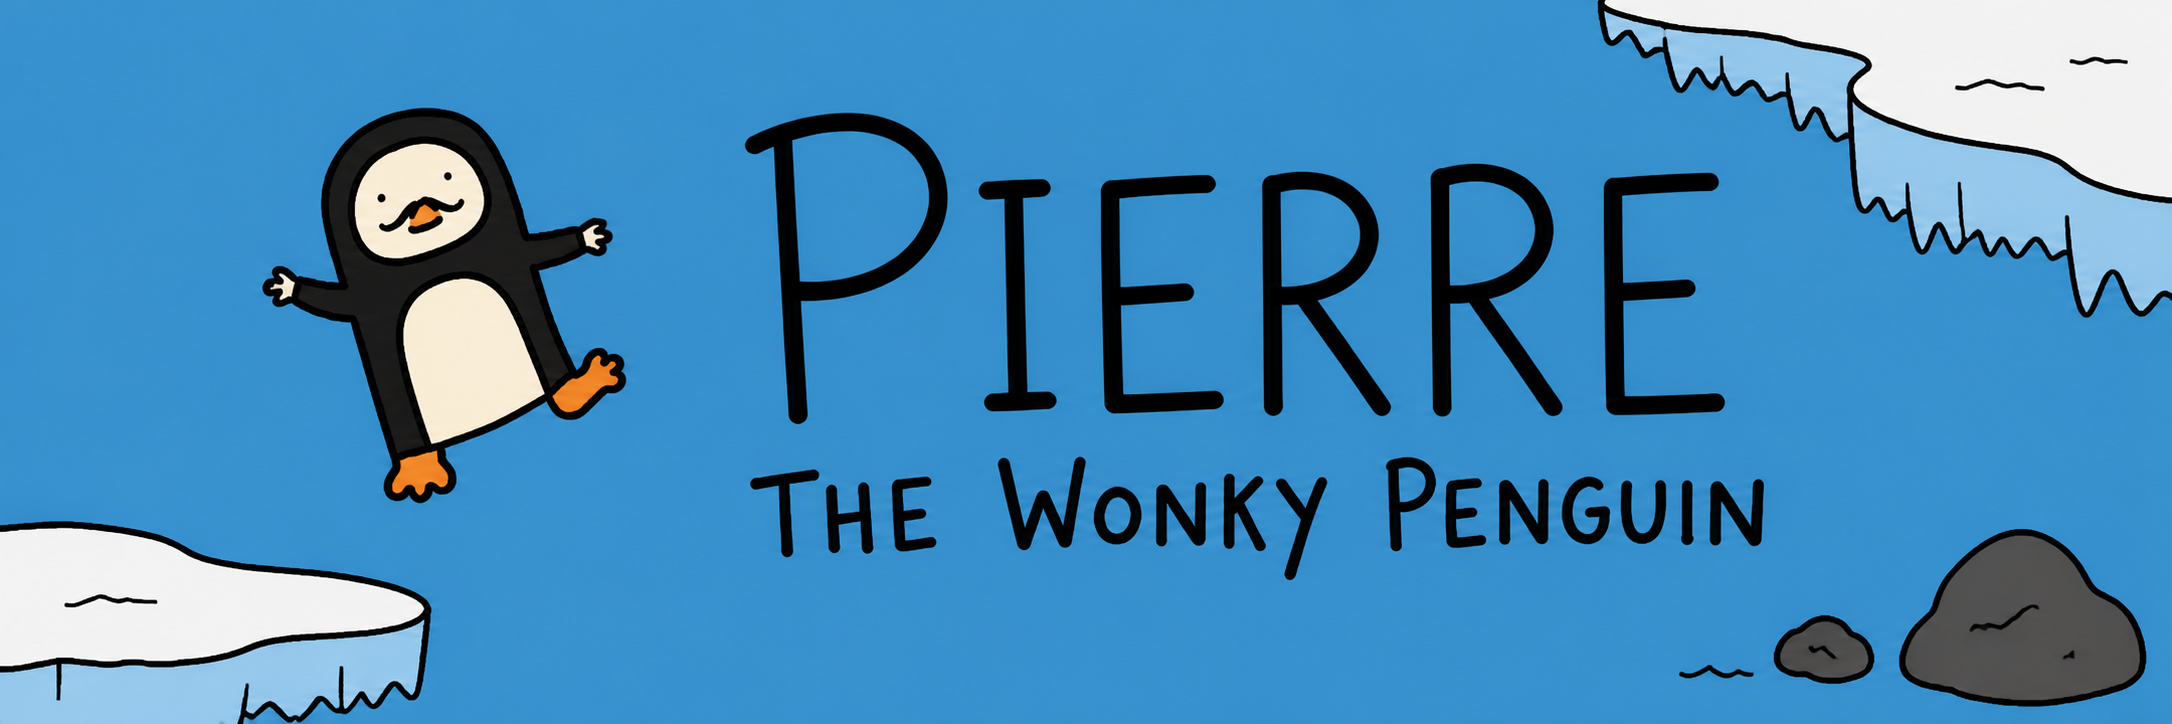
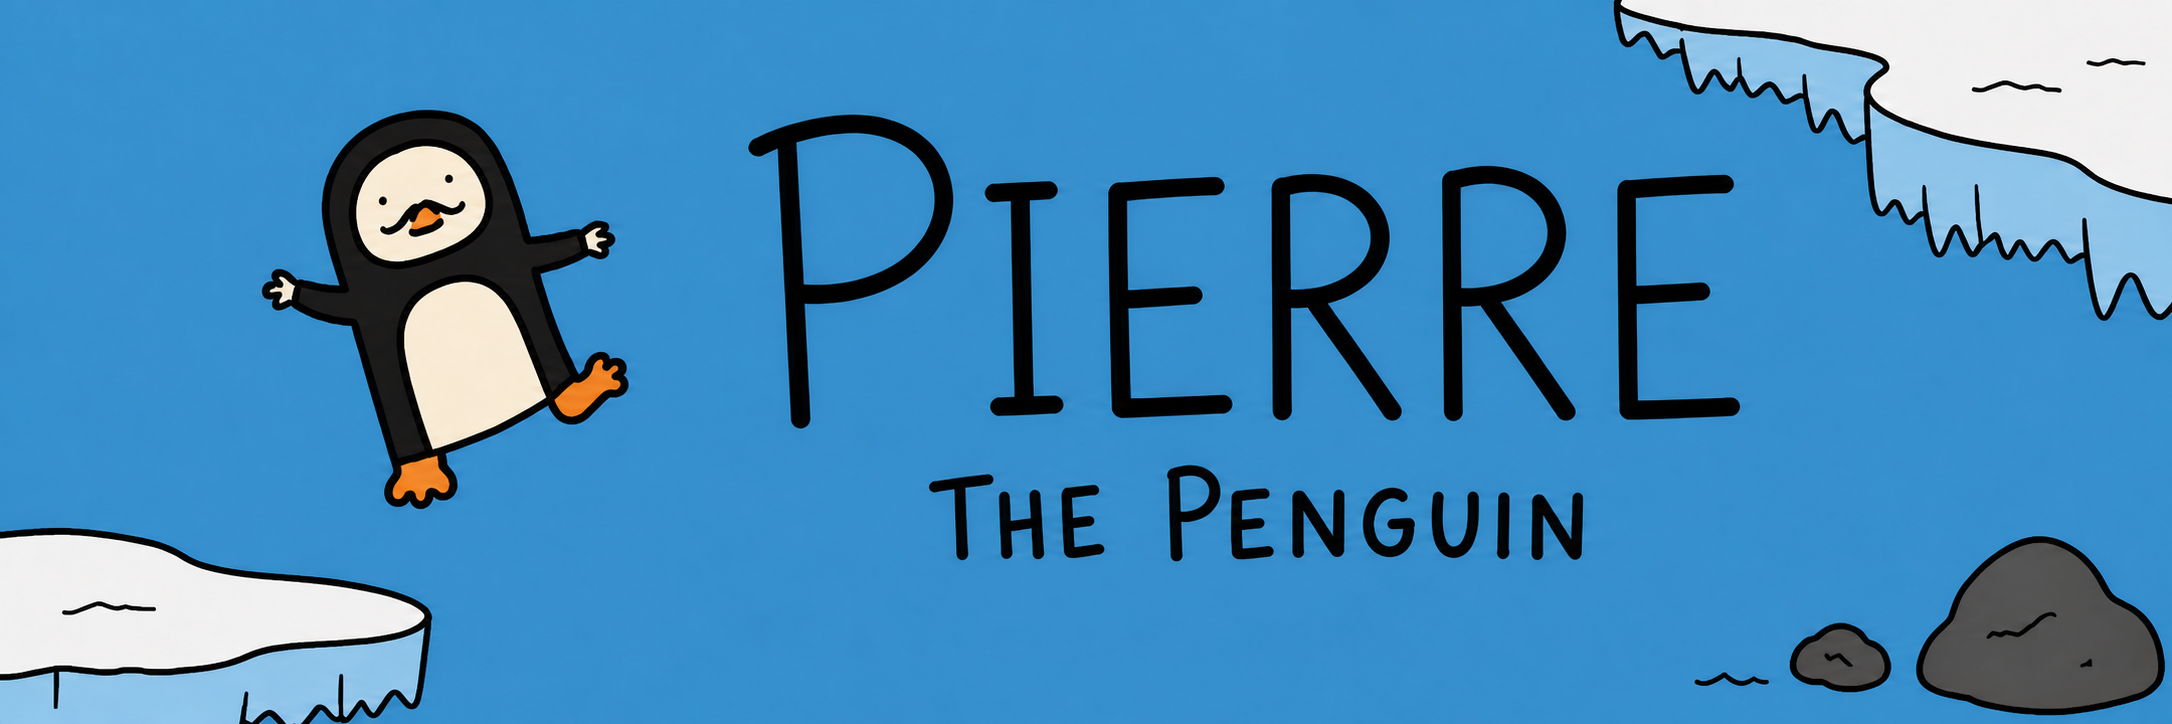
Rename Pierre the Penguin

diff --git a/app/layout.tsx b/app/layout.tsx
@@ -11,15 +11,15 @@ export const metadata: Metadata = {
       ? `https://${process.env.VERCEL_PROJECT_PRODUCTION_URL}`
       : "http://localhost:3000",
   ),
-  title: "Pierre the Wonky Penguin — PFP Generator",
-  description: "Dress up Pierre, add a caption, and download a wonderfully wonky penguin PFP.",
+  title: "Pierre the Penguin — PFP Generator",
+  description: "Dress up Pierre, add a caption, and download your own Pierre the Penguin PFP.",
   icons: {
     icon: [{ url: "/favicon.png?v=1", type: "image/png", sizes: "512x512" }],
     shortcut: "/favicon.png?v=1",
     apple: "/favicon.png?v=1",
   },
-  openGraph: { title: "Pierre the Wonky Penguin", description: "Make your Pierre.", images: [{ url: "/og.png?v=1", width: 2172, height: 724, alt: "Pierre the wonky penguin on a crooked polar coast" }] },
-  twitter: { card: "summary_large_image", title: "Pierre the Wonky Penguin", description: "Make your Pierre.", images: ["/og.png?v=1"] },
+  openGraph: { title: "Pierre the Penguin", description: "Make your Pierre.", images: [{ url: "/og.png?v=2", width: 2172, height: 724, alt: "Pierre the Penguin on a crooked polar coast" }] },
+  twitter: { card: "summary_large_image", title: "Pierre the Penguin", description: "Make your Pierre.", images: ["/og.png?v=2"] },
 };
 
 export default function RootLayout({ children }: Readonly<{ children: React.ReactNode }>) {

diff --git a/app/page.tsx b/app/page.tsx
@@ -79,7 +79,7 @@ export default function Home() {
         <div className="brand-copy">
           <div className="brand-lockup">
             <small>LE PFP ATELIER</small>
-            <h1>pierre&nbsp; <span>the wonky</span>&nbsp; penguin</h1>
+            <h1>pierre&nbsp; <span>the</span>&nbsp; penguin</h1>
           </div>
           <div className="swatches" aria-hidden="true">
             {colors.map((color) => <i key={color} style={{ background: color }} />)}
@@ -169,7 +169,7 @@ export default function Home() {
         <div className="rail-cards">
           <div className="rail-card">
             <i className="rail-icon"><NextImage src={baseCharacter} alt="" fill sizes="76px" unoptimized /><NextImage src="/characters/heads/head-01.png" alt="" fill sizes="76px" unoptimized /></i>
-            <span>Wonky<br />by design</span>
+            <span>Made<br />by hand</span>
           </div>
           <div className="rail-card">
             <i className="rail-icon"><NextImage src={baseCharacter} alt="" fill sizes="76px" unoptimized /><NextImage src="/characters/heads/head-05.png" alt="" fill sizes="76px" unoptimized /></i>

diff --git a/README.md b/README.md
@@ -1,8 +1,8 @@
-# Pierre the Wonky Penguin
+# Pierre the Penguin
 
-A hand-drawn PFP generator for Pierre: a charmingly wonky penguin with a tiny
-pencil mustache. Mix head styles and props, add a caption, then copy or download
-the finished 500x500 PNG.
+A hand-drawn PFP generator for Pierre the Penguin, complete with his tiny pencil
+mustache. Mix head styles and props, add a caption, then copy or download the
+finished 500x500 PNG.
 
 Pierre deliberately keeps the original character canvas, pose, and attachment
 points so every layered generator asset remains aligned.
